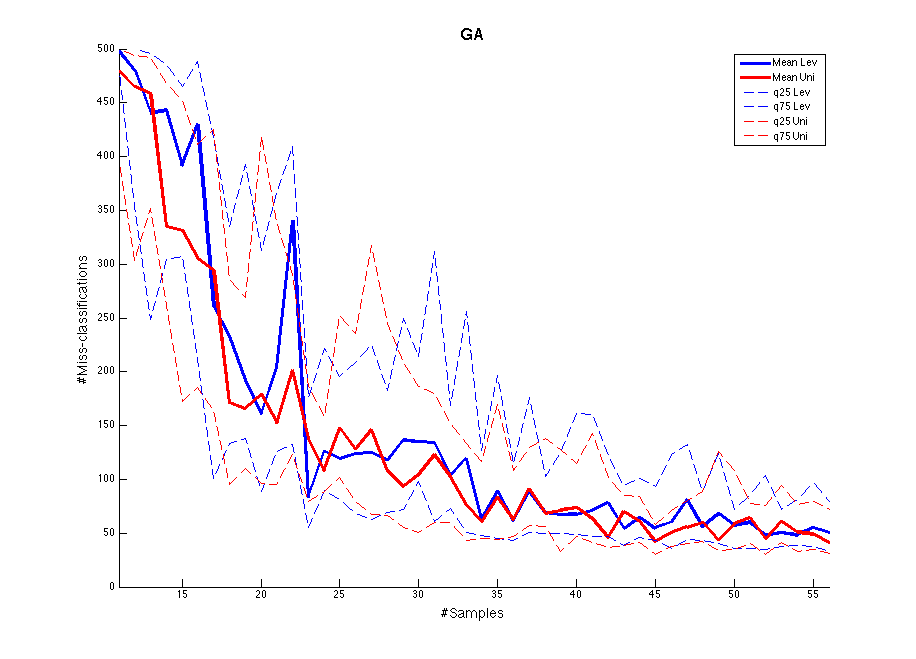
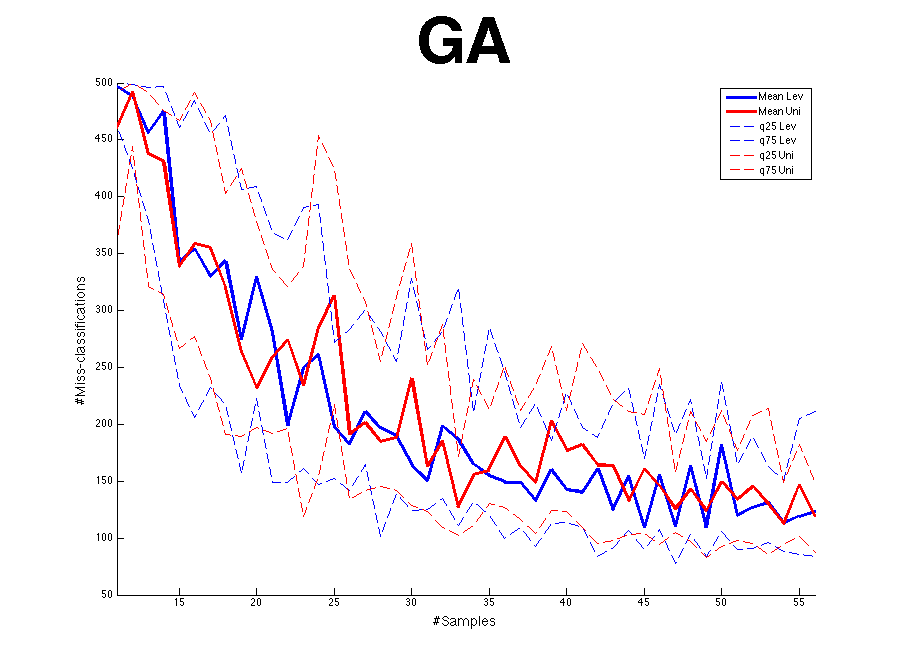
Nyt billede

diff --git a/classification_performance_plots.m b/classification_performance_plots.m
@@ -65,7 +65,9 @@ title(sprintf('N = %i, d = %i \nLeveraging sampling blue \nUniform sampling red'
 %axis auto
 hold off
 
-%%
+%% %
+% Learning curves, based on mean and .25 and .75 quantile
+%%%
 figure
 lev = quantile((Ew),[0.25 0.5 .75])
 uni = quantile((Eu),[0.25 0.5 .75])
@@ -79,7 +81,7 @@ plot(xAxis, lev(1, :) ,'--b', xAxis, lev(3,:),'--b')
 plot(xAxis, uni(1, :) ,'--r', xAxis, uni(3,:),'--r')
 
 %title(sprintf('Classification for %s distribution \n N = %i , p = %i',type,N,p), 'fontweight','bold','fontsize',16)
-title(sprintf('%s',type), 'fontweight','bold','fontsize',16)
+title(sprintf('%s',type), 'fontweight','bold','fontsize',64)
 legend('Mean Lev', 'Mean Uni', 'q25 Lev', 'q75 Lev', 'q25 Uni', 'q75 Uni')
 ylabel('#Miss-classifications','fontsize', 14)
 xlabel('#Samples','fontsize', 14)
